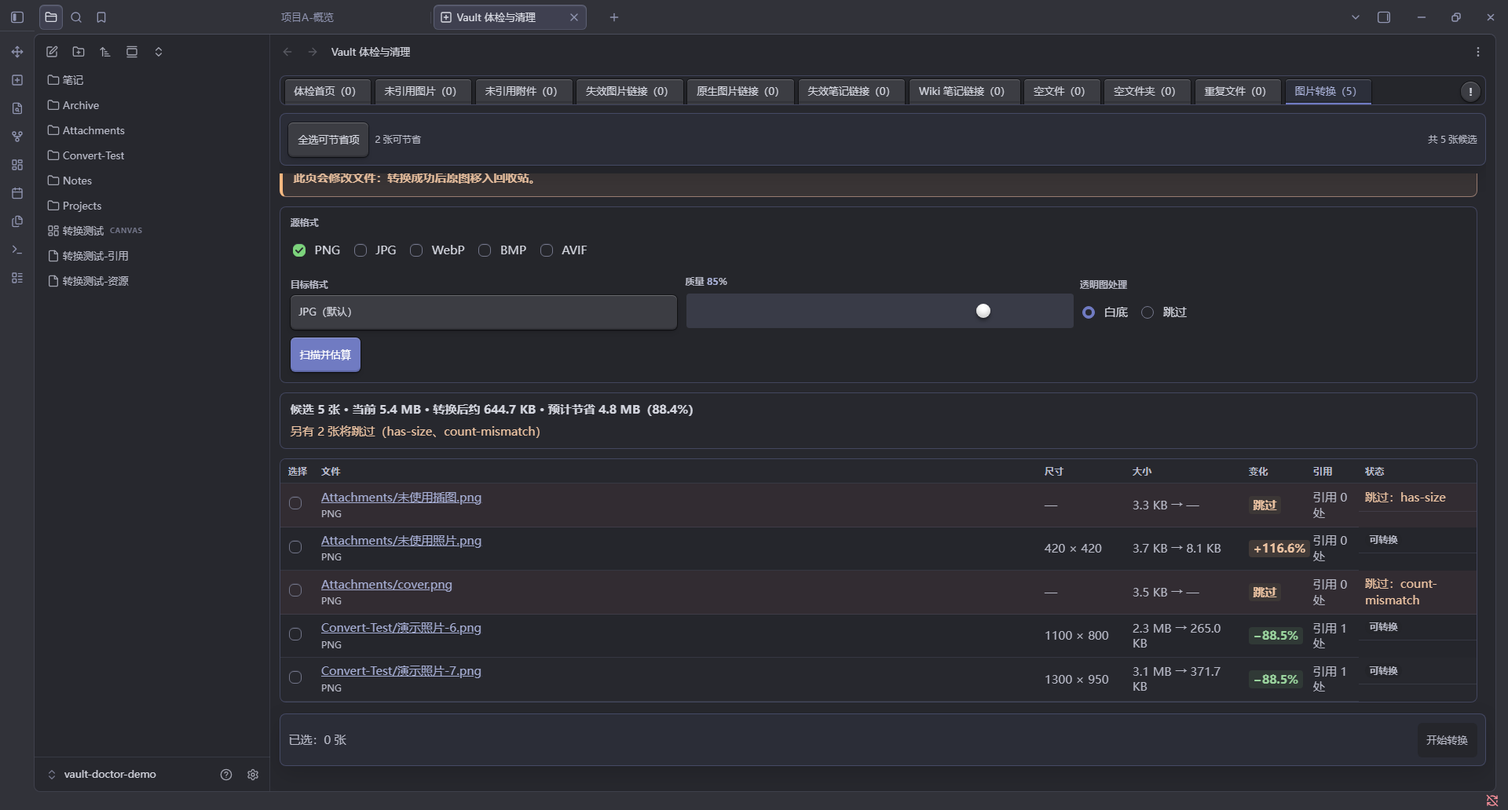
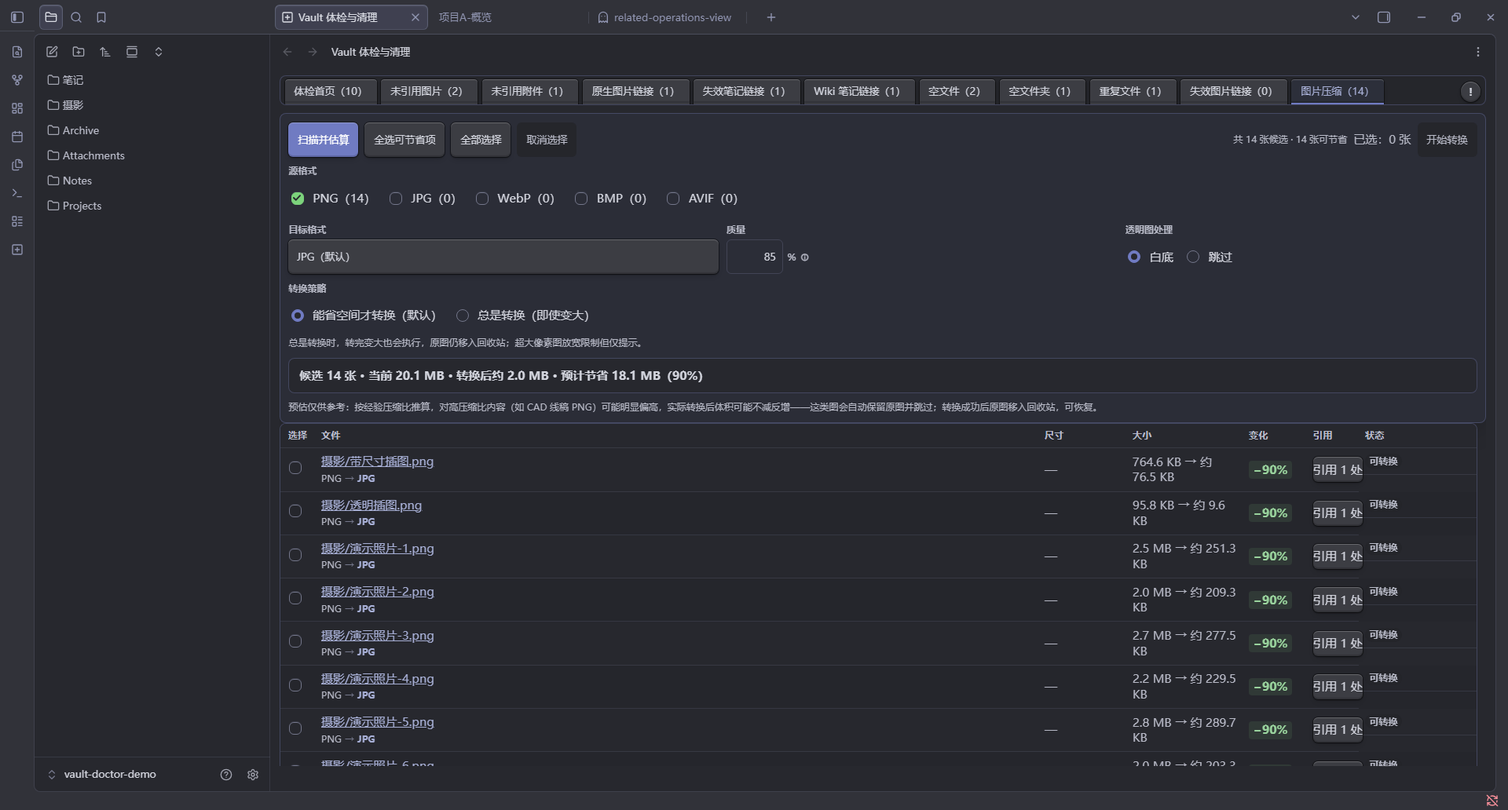
文档：美化 README 首屏并重拍过时截图

diff --git a/README.md b/README.md
@@ -1,38 +1,36 @@
 # Vault Doctor
 
+<p align="center">
+  <img src="./assets/readme/hero.svg" width="100%" alt="Vault Doctor：Obsidian Vault 体检与清理，左侧项目名与价值，右侧九宫格体征清单">
+</p>
+
+**扫描 9 类 Vault 问题，安全清理，顺带压缩图片。**
+
+Scan nine kinds of vault health problems, clean them safely, and compress images along the way.
+
+![体检首页：9 类检查 + 图片压缩](docs/images/01-dashboard.png)
+
+> 截图取自演示库 `vault-doctor-demo`，仅含示例内容。
+
+**版本** [1.14.0](https://github.com/ll905518294/obsidian-vault-doctor/releases) · **平台** 桌面端（Windows / macOS / Linux） · **许可证** [0-BSD](LICENSE) · **社区市场** [Vault Doctor](https://community.obsidian.md/plugins/vault-doctor)
+
+---
+
+## What it is
+
 **Vault Doctor** is an Obsidian plugin that scans a vault for nine kinds of health problems, compresses images and organizes related notes — then helps you fix them safely, not just list them. It runs fully offline and only changes files after you confirm. Cleanup goes through Obsidian's trash, moves support undo, and image compression rewrites references with a per-image safety check.
 
-Vault Doctor is available in the [Obsidian community directory](https://community.obsidian.md/plugins/vault-doctor).
+## Install
 
-## What it does
+In Obsidian, open **Settings → Community plugins → Browse** and search for **Vault Doctor**, then install and enable it. To install manually, download `main.js`, `manifest.json` and (if present) `styles.css` from the [latest release](https://github.com/ll905518294/obsidian-vault-doctor/releases), place them in `<Vault>/.obsidian/plugins/vault-doctor/`, and enable the plugin in **Settings → Community plugins**.
 
-Vault Doctor brings three tools into one workspace panel:
-
-- **Vault health check** — scans 9 categories: unused images, unused attachments, empty files, empty folders, broken image links, broken note links, native image links, wiki note links and byte-identical duplicate files.
-- **Image compression** — batch-convert PNG, JPG, WebP, BMP and AVIF to JPG, WebP or PNG. Before converting, it shows an **estimated** output size and savings based on source format, target format and quality; the real size is determined during conversion. Transparency, oversized images and reference rewritability are checked precisely at conversion time. References in Wiki embeds, Markdown links, HTML `img`, frontmatter and Canvas are rewritten safely, and the source image is moved to trash only after verification.
-- **Related-note organizer** — find outgoing, incoming and bidirectional links for the current note, then batch-move notes to a target folder. The latest move can be undone.
-
-Everything runs locally: no network requests and no telemetry. Scans never modify files; deletions require two-step confirmation and go through Obsidian's trash, while link edits rely on Obsidian's undo history. After a cleanup (unused files, duplicates, missing-note creation, broken-link fixes, or image conversion), folders that the operation emptied are automatically moved to Obsidian's trash (including nested empty subfolders), and a full re-scan refreshes every category count so the UI matches the disk — no second manual scan needed. Only truly empty folders are removed; hidden (`.obsidian`/`.trash`/`.git`) and ignored folders and the vault root are never touched, and trashed folders can be restored. The completion notice appends "自动清理了 X 个空文件夹".
-
-## Feature highlights
+## Key features
 
 - 9-category vault health scan with progress, abort and cached "last scan" results.
-- Image compression with a per-image transaction: revalidate, rewrite references, verify, then trash the source.
-- Estimated size preview marked as approximate; quality scaling is applied for lossy targets and transparency is checked during conversion.
+- Image compression (PNG/JPG/WebP/BMP/AVIF → JPG/WebP/PNG) with a per-image transaction and an "only convert when it saves space / always convert" strategy.
 - Related-note moves with confirmation, skip-existing behavior and undo of the latest batch.
-- Chained cleanup after each operation: newly emptied folders (including nested empty subfolders) are moved to trash automatically and a full re-scan refreshes all category counts.
-- Keyboard and screen-reader support, plus respect for reduced motion.
-- Markdown scan reports that contain paths and links only, never note body text.
-
-## Quick start
-
-1. In Obsidian, open **Settings → Community plugins → Browse** and search for **Vault Doctor**.
-2. Install and enable the plugin.
-3. Open the **Vault 体检与清理** panel from the ribbon icon or the command palette.
-
-To install manually, download `main.js`, `manifest.json` and (if present) `styles.css` from the [latest release](https://github.com/ll905518294/obsidian-vault-doctor/releases), put them in `<Vault>/.obsidian/plugins/vault-doctor/`, then enable the plugin in **Settings → Community plugins**.
-
-A ZIP with the same three files is also attached to each release. The ZIP is a convenience bundle, not a Windows installer.
+- Chained cleanup after each operation: newly emptied folders are moved to trash automatically and a full re-scan refreshes all category counts.
+- Fully local: no network requests, no telemetry.
 
 ## Requirements
 
@@ -43,7 +41,9 @@ A ZIP with the same three files is also attached to each release. The ZIP is a c
 
 0-BSD.
 
-Chinese documentation follows below. / 中文说明见下方。
+---
+
+中文说明见下方。
 
 一个为 Obsidian 做的「Vault 体检 + 问题处理」插件：一次性扫描 9 类健康问题（失效链接、未引用资源、重复文件等），并提供图片压缩优化工具，安全地完成整理，而不是只列清单。
 
@@ -53,53 +53,52 @@ Chinese documentation follows below. / 中文说明见下方。
 - 系统要求：Obsidian 1.13.0 及以上，仅支持桌面端（Windows / macOS / Linux）
 - 许可证：0-BSD
 
-![Vault 体检首页](docs/images/01-dashboard.png)
+## 它能做什么
 
-> 截图取自演示库 `vault-doctor-demo`，仅含示例内容。
->
-> 截图仍为 1.8.0 界面，待按 1.9.9 新界面重拍后更新；「图片压缩」页签见[图片压缩](#图片压缩)。
+**Vault Doctor** 把三块能力放进同一个工作区面板：
 
-## 功能总览
+- **Vault 体检**：扫描 9 类问题——未引用图片、未引用附件、空文件、空文件夹、失效图片链接、失效笔记链接、原生图片链接、Wiki 笔记链接、字节级重复文件。
+- **图片压缩**：批量把 PNG/JPG/WebP/BMP/AVIF 转为 JPG/WebP/PNG。转换前按格式与质量给出**预估**体积与节省，真实大小以转换时的编码结果为准；透明、超大像素、引用可改写等风险在转换时逐张精确判定。Wiki 嵌入、Markdown 链接、HTML `img`、frontmatter 与 Canvas 中的引用都会被安全改写，源图仅在校验通过后移入回收站。
+- **关联笔记整理**：找出当前笔记的出链、入链、双向链接，批量移动到目标文件夹，最近一次移动可撤销。
 
-| 模块 | 能做什么 |
-| --- | --- |
-| Vault 体检 | 一键扫描未引用图片、未引用附件、空文件、空文件夹、失效图片链接、失效笔记链接、原生图片链接、Wiki 笔记链接、重复文件；扫描可随时中止，已完成的分类结果保留；结果缓存在插件设置里，重开面板显示「上次扫描」时间，设置变化时自动失效 |
-| 清理处理 | 勾选后通过删除按钮两段式确认移入 Obsidian 回收站；失效链接可移除；缺失笔记可创建；`![[图片]]` 可转换为标准 Markdown 语法 |
-| 图片压缩 | 首页与标签条末尾都有入口：进入页签先轻量枚举候选，点「扫描并估算」按格式与质量快速预估空间并显示进度（不逐张解码）；批量把 PNG/JPG/WebP/BMP/AVIF 转为 JPG/WebP/PNG，安全改写引用，估算与转换都可以中止 |
-| 关联笔记整理 | 找出当前笔记的出链、入链、双向链接笔记，批量移动到指定文件夹 |
-| 扫描报告 | 支持复制到剪贴板或导出 Markdown 报告，只包含路径与链接信息，不含笔记正文 |
-| 性能 | 全部在本地完成：图片压缩估算改为纯数学预估，只读文件体积与 Obsidian 引用索引，本机 5615 张约 5.4 秒（不再逐张解码）；执行阶段先建立引用内容快照、不再逐张全库读取笔记，并按需检测透明度，大库更快；重复文件在大小预筛后最多 8 路并发计算 SHA-256（按文件体积预算自动下调，约 8 倍），正文引用匹配只比对文件名尾段 |
-| 键盘与读屏 | 同组图片预览只占一个 Tab 停靠点，方向键切换、Enter 或空格打开；弹窗关闭后焦点回到触发元素，并声明 `role="dialog"` 与可访问名称；表头带 `scope="col"`；跟随系统「减少动态效果」 |
+全部在本地完成：无网络请求、无遥测。扫描从不修改文件；删除需要两段式确认并走 Obsidian 回收站，链接改写依赖 Obsidian 编辑历史。每次清理后，因操作变空的文件夹（含嵌套空子目录）会被自动移入回收站，并自动做一次全关联重扫、刷新所有体检类别计数，无需二次手动扫描。
 
 ## 快速上手
 
-三步用起来：
-
-1. **安装并启用**：在 **设置 → 第三方插件 → 浏览** 中搜索 **Vault Doctor** 安装并启用；也可按下方[安装说明](#安装与卸载)手动放置文件。
-2. **打开体检**：点击左侧栏唯一的 <kbd>+</kbd> 方框图标「Vault 体检与清理」，或运行命令「打开 vault 体检与清理」。
-3. **扫描并处理**：点击右上角**开始扫描**，在体检首页按问题数量优先处理；进入分类标签页勾选条目后执行清理。**扫描不会修改任何文件，只有你确认的操作才会执行。**
+1. **安装并启用**：在 **设置 → 第三方插件 → 浏览** 中搜索 **Vault Doctor** 安装并启用。
+2. **打开体检**：点击左侧栏唯一的「Vault 体检与清理」图标，或运行命令「打开 vault 体检与清理」。
+3. **扫描并处理**：点右上角**开始扫描**，在体检首页按问题数量优先处理；进入分类标签页勾选条目后执行清理。**扫描不会修改任何文件，只有你确认的操作才会执行。**
 
 **首次使用引导**：第一次安装并加载插件时会自动弹出三步引导（它能做什么、安全说明、怎么开始，含界面截图），点「开始使用」可直接打开体检面板。之后可在命令面板搜索「打开使用引导」重看；设置里的「首次显示使用引导」关闭后不再自动弹出。
 
 **查看更新说明**：安装或升级到新版本后，首次打开会自动弹出一次该版本的中文更新说明（按新功能、改进、修复分类，含「开始使用」按钮）；同一版本不会重复弹出。之后可随时在命令面板搜索「查看更新说明」再次打开。
 
-## Vault 体检与清理
+## 截图证明
 
-点击左侧栏唯一的**打开 vault 体检与清理**图标，或运行同名命令打开体检工具。工具以工作区标签页打开。点击**开始扫描**后，**体检首页**与各分类标签页并列展示，可随时切回总览。
-
-扫描默认不勾选任何条目；确认无误后自行勾选并执行清理。
-
-### 体检首页
-
-首页把所有检查项汇总成一张总览：顶部是**当前待处理**总数和扫描进度（`9/9 分类已扫描`），下方按**优先处理**（按问题数量排序）与**已检查（未发现问题）**分区。每个卡片都能直接**重新扫描**或**查看**明细，不必逐个标签页翻找。扫描期间标题栏会出现**中止扫描**，点它会在当前分类结束后停下，已完成的分类结果全部保留，首页标注「扫描已中止」。
-
-扫描结果会缓存在插件设置中：重新打开面板直接显示上次结果，并标注「上次扫描：日期 时间」，点**重新扫描全部**才会更新；修改图片格式或忽略目录后，缓存中保存的设置快照与当前设置不一致时即被丢弃，不再继续显示与当前设置不符的扫描结果，需要重新扫描。
-
-首页同时提供**图片压缩**卡片：它不属于 9 类扫描，**开始扫描**只更新 9 类结果，不会为压缩候选解码或估算体积；卡片显示「尚未估算 / 正在估算 / N 张图片可转换」等状态，有可转换图片时计入顶部「当前待处理」总数，点卡片或**查看**即可进入图片压缩页签。
+以下截图均取自演示库 `vault-doctor-demo`，仅含示例内容，不含任何真实项目信息。
 
 ![体检首页扫描结果](docs/images/02-scan-result.png)
 
-### 检查项说明
+![未引用图片列表](docs/images/03-unused-images.png)
+
+![失效笔记链接列表](docs/images/04-broken-links.png)
+
+![空文件列表](docs/images/05-empty-files.png)
+
+![重复文件分组](docs/images/06-duplicate-files.png)
+
+## 功能细节
+
+### Vault 体检与清理
+
+点击左侧栏唯一的**打开 vault 体检与清理**图标，或运行同名命令打开体检工具。工具以工作区标签页打开。点击**开始扫描**后，**体检首页**与各分类标签页并列展示，可随时切回总览。扫描默认不勾选任何条目，确认无误后自行勾选并执行清理。
+
+**体检首页**把所有检查项汇总成一张总览：顶部是**当前待处理**总数和扫描进度（`9/9 分类已扫描`），下方按**优先处理**（按问题数量排序）与**已检查（未发现问题）**分区。每个卡片都能直接**重新扫描**或**查看**明细。扫描期间标题栏会出现**中止扫描**，点它会在当前分类结束后停下，已完成的分类结果全部保留。
+
+扫描结果缓存在插件设置中：重开面板直接显示上次结果并标注「上次扫描：日期 时间」；修改图片格式或忽略目录后，缓存中保存的设置快照与当前设置不一致时即被丢弃，需重新扫描。首页同时提供**图片压缩**卡片，它不属于 9 类扫描，**开始扫描**只更新 9 类结果；有可转换图片时计入顶部「当前待处理」总数，点卡片或**查看**进入图片压缩页签。
+
+<details>
+<summary>展开：9 条检查项说明</summary>
 
 - **未引用图片**：按设置中的可清理图片格式（默认 PNG、JPG/JPEG、GIF、WEBP、SVG、BMP、AVIF、ICO）扫描未被 Markdown 链接或 Canvas 文件节点引用的图片。采用保守策略：正文中以任何形式提到图片文件名或路径（HTML 标签、frontmatter 纯文本、代码块）都视为已引用，避免误报。
 - **未引用附件**：扫描隐藏目录与忽略目录之外、不属于可清理图片格式的非 Markdown、非 Canvas 文件；被链接、Canvas 节点或文字提及的文件会被排除。若把某种扩展名从「可清理图片格式」里去掉，这类文件会改按附件参与扫描。
@@ -107,34 +106,28 @@ Chinese documentation follows below. / 中文说明见下方。
 - **空文件夹**：包括只包含空子文件夹的父级文件夹。`.obsidian`、`.trash`、`.git` 等隐藏目录永远不会被扫描。
 - **失效图片链接**：本地目标无法解析的图片嵌入与图片链接单独成表，可勾选移除完整链接语法。外部 URL、HTML 图片、frontmatter 与代码块不参与扫描。
 - **失效笔记链接**：指向不存在 Markdown 笔记的 Wiki 链接与 Markdown 链接单独成表，支持定位、本次忽略、移除或创建缺失目标；缺失的父文件夹会自动创建，已存在的文件与无效目标会跳过并报告。
-- **原生图片链接**：全库查找 `![[图片.png]]` 形式的嵌入，可转换为 `![](路径)` 标准语法。尺寸标注、未解析目标、代码块与 frontmatter 一律跳过；按笔记分组执行，可用 Obsidian 编辑历史撤销。
-- **Wiki 笔记链接**：查找 `[[笔记]]`、`[[笔记|别名]]`、`[[笔记#标题]]`、`[[笔记^块id]]` 等指向 Markdown 笔记的 Wiki 链接，可转换为 `[显示文本](<路径.md>)` 标准尖括号 Markdown 链接；别名保留，标题与块引用转为 `#标题` / `#^块id` 锚点。图片等嵌入语法、外部 URL、非 Markdown 目标、无法解析的目标、代码块与 frontmatter 一律跳过；按笔记分组执行，可用 Obsidian 编辑历史撤销。操作：进入 **Wiki 笔记链接** 页签，勾选要转换的链接（无法解析或无需转换的会自动置灰），点击 **转换选中链接**，在弹出确认框点 **确认转换**；完成后底部状态栏更新，并弹出 `已转换：N，跳过：M，失败：K` 的提示。
+- **原生图片链接**：全库查找 `![[图片.png]]` 形式的嵌入，可转换为标准 Markdown 图片链接。尺寸标注、未解析目标、代码块与 frontmatter 一律跳过；按笔记分组执行，可用 Obsidian 编辑历史撤销。
+- **Wiki 笔记链接**：查找 `[[笔记]]`、`[[笔记|别名]]`、`[[笔记#标题]]`、`[[笔记^块id]]` 等指向 Markdown 笔记的 Wiki 链接，可转换为 `[显示文本](<路径.md>)` 标准尖括号 Markdown 链接；别名保留，标题与块引用转为 `#标题` / `#^块id` 锚点。图片等嵌入语法、外部 URL、非 Markdown 目标、无法解析的目标、代码块与 frontmatter 一律跳过；按笔记分组执行，可用 Obsidian 编辑历史撤销。
 - **重复文件**：先按文件大小预筛，再按 SHA-256 内容哈希精确分组，只把字节级相同的文件视为重复（不含相似内容）。删除选中的重复文件前会同步移除笔记中的对应链接；笔记编辑失败则阻止删除，避免产生新失效链接。
+
+</details>
 
 ### 分类明细界面
 
 **未引用图片**以缩略图卡片展示，可勾选、预览或删除；顶部可按**按路径**或**按格式**分组（也可不分组），底部显示已选数量，右侧为**移入回收站**。
 
-![未引用图片列表](docs/images/03-unused-images.png)
-
 **失效笔记链接**以表格展示源笔记、失效链接原文、未解析目标与链接类型；每行可**定位**或本次**忽略**，底部可**创建选中笔记**或**移除选中链接**。
-
-![失效笔记链接列表](docs/images/04-broken-links.png)
 
 **空文件**与**空文件夹**列表会标注文件大小，勾选后统一移入回收站。
 
-![空文件列表](docs/images/05-empty-files.png)
-
 **重复文件**按内容哈希分组，逐行列出每个副本被哪些笔记引用、位于哪个文件夹、当前状态（已引用 / 未发现引用），便于判断该保留哪一份。
 
-![重复文件分组](docs/images/06-duplicate-files.png)
+> 安全执行、回收站、两段式确认、清理后连锁收尾的统一约定见下方[安全设计](#安全设计)。
 
 ### 安全设计
 
 - 清理按你在 Obsidian 设置中选择的回收站选项移入 `.trash/` 或系统回收站，不直接删除文件；失效链接移除、原生图片链接与 Wiki 笔记链接转换直接编辑 Markdown，可用编辑历史撤销。
-- **删除按钮两段式确认**：第一次点击「移入回收站 / 删除选中文件 / 删除」只会把按钮变为「确认删除」警示状态并提示「再次点击确认删除」；第二次点击才执行。3 秒无操作、焦点移出按钮或勾选变化都会自动复位，不再弹出二次确认弹窗。失效链接移除、缺失笔记创建、原生链接与 Wiki 链接转换和关联笔记移动仍使用各自的确认弹窗。误触说明：第一次点击只是**武装**按钮，不会删除任何文件；若误点了，不做任何操作等 3 秒即自动复位，或点击其它按钮 / 取消勾选也能立即复位。
-- 重复文件支持整组全选删除：执行前会按内容哈希逐文件复核（引用清理失败、内容已变化或读取失败的单个文件会被跳过并说明原因），不会因为「每组必须保留一个副本」而拒绝整组操作。
-- 执行清理前会对每个条目**重新复核**引用状态：扫描后被引用、被修改或已被移除的资源自动跳过。
+- **删除按钮两段式确认**：第一次点击「移入回收站 / 删除选中文件 / 删除」只会把按钮变为「确认删除」警示状态并提示「再次点击确认删除」；第二次点击才执行。3 秒无操作、焦点移出按钮或勾选变化都会自动复位，不再弹出二次确认弹窗。失效链接移除、缺失笔记创建、原生链接与 Wiki 链接转换和关联笔记移动仍使用各自的确认弹窗。
 - **清理后的连锁收尾**：清理未引用图片/附件/空文件、重复文件、创建缺失笔记、移除/转换失效链接，以及图片压缩转换完成后，系统会自动把「本次操作导致变空」的文件夹（含嵌套空子目录）移入 Obsidian 回收站，并自动做一次全关联重扫、刷新所有体检类别计数，界面状态与磁盘保持一致，无需二次手动扫描。边界：只删除真正变空的文件夹；隐藏目录（`.obsidian`/`.trash`/`.git`）、设置里忽略的目录和根目录都不会被删除；被移入回收站的文件夹可恢复。清理完成提示中会追加「自动清理了 X 个空文件夹」。
 - Vault 内容发生变化后，旧扫描结果会标记**结果待复核，请重新扫描**，未扫描的分类显示**尚未扫描**；清理操作完成后会自动重扫刷新。
 
@@ -144,9 +137,11 @@ Chinese documentation follows below. / 中文说明见下方。
 
 ![图片压缩页签的候选列表与汇总条](docs/images/09-image-convert.png)
 
-首次进入页签时会先做一次轻量枚举：只按源格式、忽略目录与目标格式筛出候选，不读文件、不估算体积；之后切换源格式或目标格式也会重新枚举。点**扫描并估算**后按源格式、目标格式与质量推算每张图的预估体积，同时显示「正在估算 x / y · 当前文件」与进度条；估算不读取图片内容，也不解码。完成后列表列出每张候选图的当前大小、转换后**约**多大与变化幅度；尺寸列在快速预估下显示 `—`，引用列按 Obsidian 引用索引统计「引用 N 处」。汇总条只累计可转换项，会跳过的图片单独计数并写明原因。工具栏提供**全选可节省项**、**全部选择**与**取消选择**：**全选可节省项**只选已估算且确实省体积的条目，**全部选择**选中所有未跳过项（包括体积可能变大的），**取消选择**清空当前选择。引用列可点击：1 篇来源笔记直接打开，多篇在列内弹出菜单选择，0 篇或笔记已移动时给出中文提示。选好条目后点**开始转换**（需连点两次确认）；转换开始前先建立引用内容快照，之后逐张真实解码与编码并显示同样的进度信息，结束后表格下方的结果摘要与右上角提示会给出成功、跳过、失败数量与实际节省的空间。
+首次进入页签时会先做一次轻量枚举：只按源格式、忽略目录与目标格式筛出候选，不读文件、不估算体积；切换源格式或目标格式会重新枚举。点**扫描并估算**后按源格式、目标格式与质量推算每张图的预估体积，同时显示「正在估算 x / y · 当前文件」与进度条；估算不读取图片内容，也不解码。完成后列表列出每张候选图的当前大小、转换后**约**多大与变化幅度；尺寸列在快速预估下显示 `—`，引用列按 Obsidian 引用索引统计「引用 N 处」。
 
-![转换完成后的结果状态](docs/images/10-image-convert-result.png)
+工具栏提供**全选可节省项**、**全部选择**与**取消选择**：**全选可节省项**只选已估算且确实省体积的条目，**全部选择**选中所有未跳过项（包括体积可能变大的），**取消选择**清空当前选择。引用列可点击：1 篇来源笔记直接打开，多篇在列内弹出菜单选择，0 篇或笔记已移动时给出中文提示。选好条目后点**开始转换**（需连点两次确认）。
+
+![转换完成后的结果摘要](docs/images/10-image-convert-result.png)
 
 ### 可选项
 
@@ -158,20 +153,22 @@ Chinese documentation follows below. / 中文说明见下方。
 | 透明图处理 | 白底、跳过 | 白底 |
 | 转换策略 | 能省空间才转换（默认）、总是转换（即使变大） | 能省空间才转换 |
 
- 质量旁的 ⓘ 图标在悬停或键盘聚焦时显示说明：100 为最高质量，JPG/WebP 仍会重新编码（有损），仅 PNG 无损；目标格式为 PNG 时质量输入框不可用，提示会追加「PNG 输出为无损，质量设置不适用」。**转换策略**：默认「能省空间才转换」保持原行为，转换后体积不减反增就保留原图并跳过；「总是转换（即使变大）」则照常执行、仅换格式，原图仍移入回收站可恢复。像素上限按两级规则：默认档超过 1.2 亿像素强制跳过（快速预估不解码，因此估算列表不再预标记）；「总是转换」档可放开 1.2 亿像素、超大像素图放行并仅提示，超过 4 亿像素绝对硬上限仍跳过以防内存崩溃。
+质量旁的 ⓘ 图标在悬停或键盘聚焦时显示说明：100 为最高质量，JPG/WebP 仍会重新编码（有损），仅 PNG 无损；目标格式为 PNG 时质量输入框不可用。**转换策略**：默认「能省空间才转换」保持原行为，转换后体积不减反增就保留原图并跳过；「总是转换（即使变大）」则照常执行、仅换格式，原图仍移入回收站可恢复。像素上限按两级规则：默认档超过 1.2 亿像素强制跳过；「总是转换」档可放开 1.2 亿像素、超大像素图放行并仅提示，超过 4 亿像素绝对硬上限仍跳过以防内存崩溃。
 
-设置页可预先配置**目标格式**、**默认质量**与**透明图处理**；在页面内调整这三项时会同步保存为下一次的默认值。源格式只在页面内勾选，默认勾选 PNG。
+设置页可预先配置**目标格式**、**默认质量**与**透明图处理**；在页面内调整这三项时会同步保存为下一次的默认值。源格式只在页面内勾选，默认勾选 PNG。只处理上述源格式；GIF（转换会丢失动画）、SVG、TIFF、HEIC/HEIF、ICO 不处理；`.obsidian`、隐藏目录和设置中的「忽略目录」会被排除。
 
-只处理上述源格式。GIF（转换会丢失动画）、SVG、TIFF、HEIC/HEIF、ICO 不处理；`.obsidian`、隐藏目录和设置中的「忽略目录」会被排除。
-
-### 透明图
+<details>
+<summary>展开：透明图处理</summary>
 
 - **估算不检测透明**：快速预估不解码，因此估算列表不显示「透明」标记；是否含透明通道在转换时按实际像素判断。
 - **白底**：把透明区域铺成白色再编码，适合 JPG 等不支持透明的目标。
 - **跳过**：选「跳过」时，含透明通道的图片在转换时一律跳过，与目标格式无关；JPG 目标下同样先跳过。估算阶段不会因此提前阻断，转为在转换时精确判定。
 - **JPG 始终铺白底**：目标为 JPG 时编码强制把透明区域铺成白色（JPG 不支持透明通道）；这条只作用于真正被转换的图片，选「跳过」的透明图不会走到编码这一步。
 
-### 会跳过的情况
+</details>
+
+<details>
+<summary>展开：会跳过的情况</summary>
 
 估算阶段只会提前标出**目标同名文件已存在**与**多张图片会转换为同一目标文件**；其余风险在转换时逐张精确检查，跳过的条目会在结果里写明原因：
 
@@ -183,23 +180,28 @@ Chinese documentation follows below. / 中文说明见下方。
 - 选择「跳过」时，含透明通道的图片（与目标格式无关）。
 - 无扩展名引用存在同名文件或解码/编码失败；像素上限按**转换策略**判断：默认档超过 1.2 亿像素即跳过，「总是转换」档超过 4 亿像素绝对硬上限仍跳过。
 
-### 空间预估
+</details>
+
+<details>
+<summary>展开：空间预估</summary>
 
 候选列表显示**候选数**、**当前体积**、**转换后约多少**与**预计节省**。汇总条只累计可转换项，估算阶段已能确定的跳过项单独显示数量。
 
-预估是**经验值**：按「源格式 → 目标格式」的经验压缩比乘以当前文件体积，再按质量线性缩放（PNG 为无损目标，质量不参与）。它只用于判断量级与挑选候选项，**不会逐张解码或重编码**，因此 5000+ 张也能在秒级完成；最终体积以转换时的真实编码结果为准。
+预估是**经验值**：按「源格式 → 目标格式」的经验压缩比乘以当前文件体积，再按质量线性缩放（PNG 为无损目标，质量不参与）。它只用于判断量级与挑选候选项，**不会逐张解码或重编码**，因此 5000+ 张也能在秒级完成；最终体积以转换时的真实编码结果为准。如果预估转换后反而更大，汇总显示**预计增加**，单行显示 `+x%`；这类图片可以不勾选。
 
-如果预估转换后反而更大，汇总显示**预计增加**，单行显示 `+x%`；这类图片可以不勾选。
+</details>
 
-### 耗时与中止
+<details>
+<summary>展开：耗时与中止</summary>
 
 - 估算只遍历文件列表与内存中的引用索引，不解码、不读图片，耗时基本只随候选数量线性增长；执行阶段开始前一次性建立引用内容快照，之后批量引用扫描共享快照，全库笔记读取从每张图一次降为整个转换批次一次；按需检测透明度、使用原生位图解码，在内存预算内并发编解码，引用改写仍按单文件串行，大库处理更快。
 - 估算与转换期间都会显示「正在估算 / 转换 x / y · 当前文件」和进度条；大批量图片时进度文字最多约每 150 ms 刷新一次，避免界面卡顿。
 - 估算与转换都支持中止；中止在文件之间生效，已完成部分保留。转换单张大图编码时界面可能短暂停顿。
 
-### 安全执行
+</details>
 
-每张图独立执行一次事务：
+<details>
+<summary>展开：安全执行（每张图独立事务）</summary>
 
 1. 重新校验文件仍存在、仍在候选范围内，并记录大小与 mtime。
 2. 校验引用位置可定位，避免改写错位置。
@@ -212,13 +214,16 @@ Chinese documentation follows below. / 中文说明见下方。
 
 - Wiki 嵌入，保留别名；含尺寸参数的嵌入会跳过。
 - 标准 Markdown 图片链接，兼容尖括号目标、标题与 URL 编码。
-- HTML `<img src>`；`<picture><source>`、`srcset` 会跳过。
+- HTML 的 img 标签（含 src 属性）；picture/source 标签、srcset 会跳过。
 - frontmatter 中的 Wiki 链接；裸路径会跳过。
 - Canvas 节点的 `file` 字段；Canvas 文本节点里的引用会跳过。
 
 转换会修改文件内容与文件本身，和首页「扫描只读」不同；预估为经验值，请确认量级后再执行，实际大小以转换结果为准。整个过程在本地完成，不引入依赖、不发起网络请求。
 
-### 失败与恢复
+</details>
+
+<details>
+<summary>展开：失败与恢复</summary>
 
 - 改写引用失败：尝试恢复原文并删除本次新建文件，原图保留。
 - 回滚时发现笔记被用户改过：保留用户内容，不覆盖，只把该笔记列为「未能回滚」，并保留新文件。
@@ -226,13 +231,7 @@ Chinese documentation follows below. / 中文说明见下方。
 - 引用已改好但原图移入回收站失败：保留新文件与现状，原图也保留；再次执行只重试移入回收站，不重新编码。
 - 恢复原图：按 Obsidian 回收站设置从 `.trash/` 或系统回收站还原；引用仍指向新文件，完全回退需手动改回并删除新文件。
 
-### 已知限制
-
-- 转换会丢弃 EXIF/GPS/ICC 与色彩配置文件。
-- 照片方向由浏览器自动扶正，不额外写入方向信息。
-- 不缩放、不裁剪，只改变编码格式与质量。
-- 原图恢复依赖 Obsidian 回收站；清空回收站后无法从插件内恢复。
-- 不处理 GIF、SVG、TIFF、HEIC/HEIF、ICO。
+</details>
 
 ## 关联笔记整理
 
